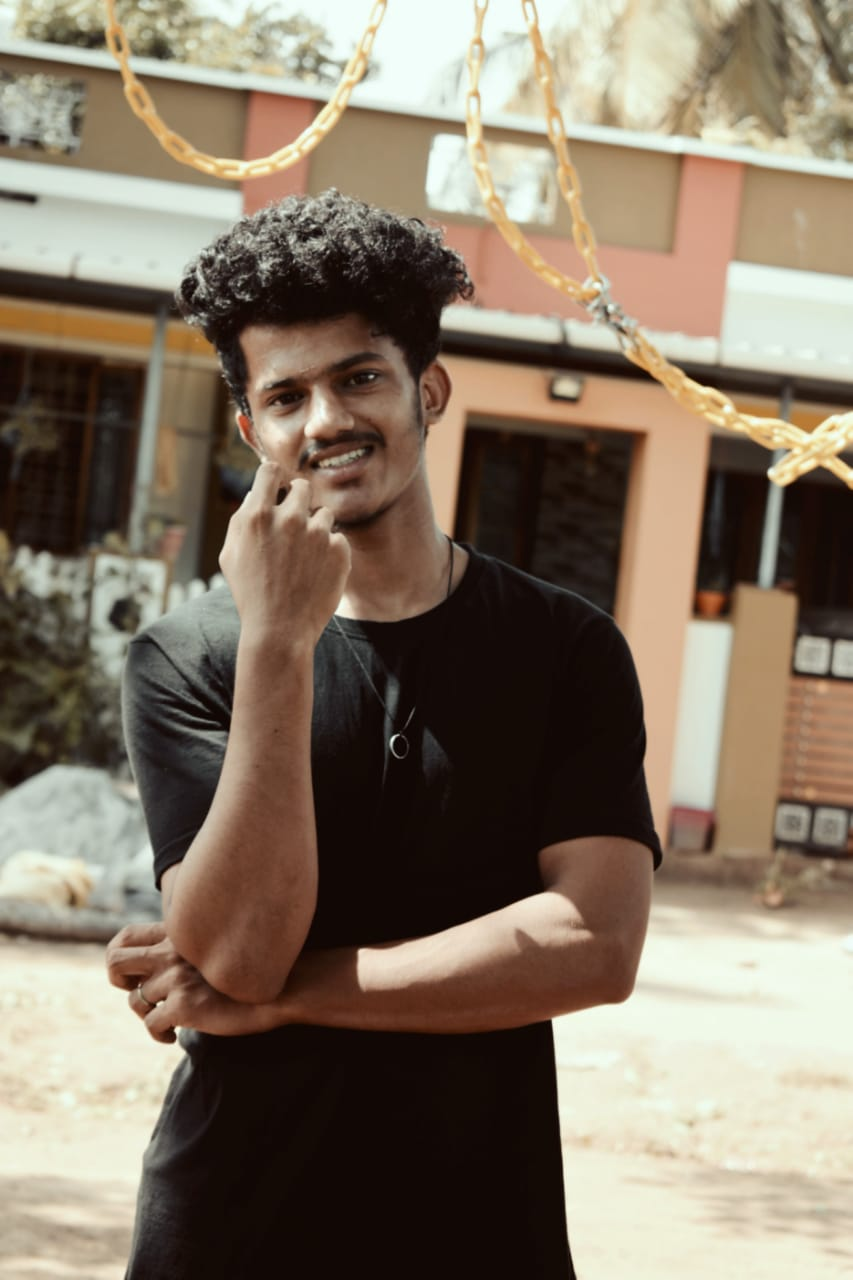
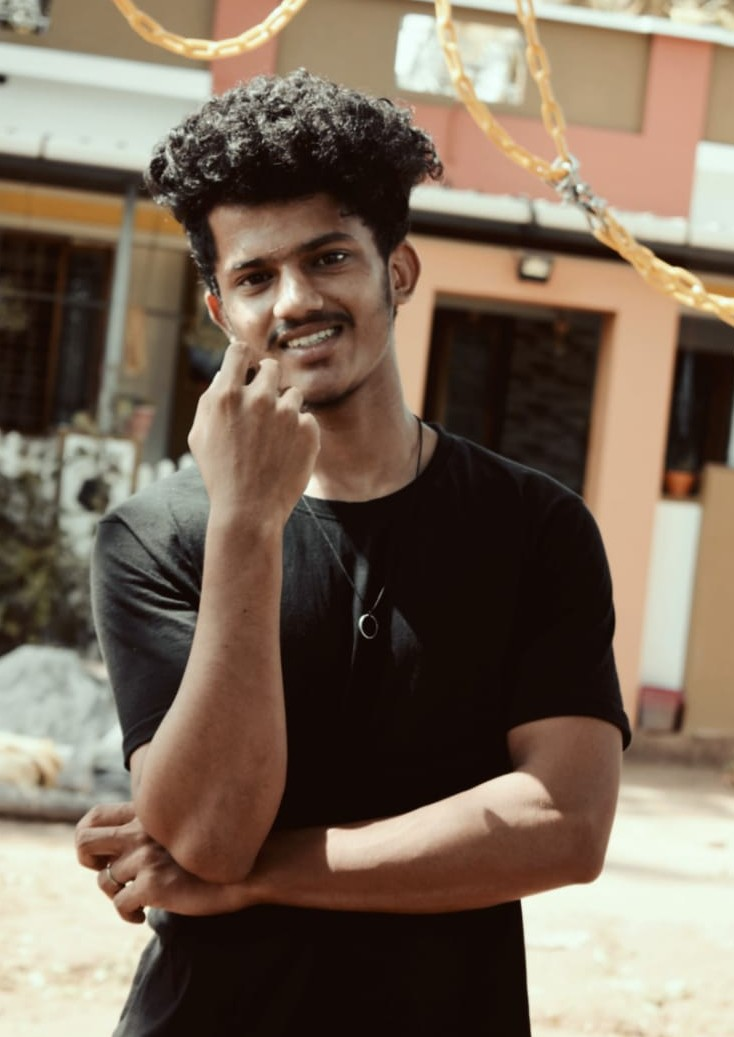
Foote form all basic has been added

diff --git a/index.html b/index.html
@@ -41,7 +41,7 @@
                                 <a class="nav-link" href=""><button class="btn nav-button" id="aboutMe-icon" >About Me</button> </a>
                             </li>
                             <li class="nav-item">
-                                <a class="nav-link" href=""><button class="btn nav-button" id="contactMe-icon">Contact Me</button> </a>
+                                <a class="nav-link" href="#contact-me"><button class="btn nav-button" id="contactMe-icon">Contact Me</button> </a>
                             </li>
                         </ul>      
                         
@@ -66,29 +66,78 @@
         </div>
     </section>
 
-    <section class="bg-success">
+    <section class="photo-scroll">
         <div class="row container-fluid text-center">
            
                  
-                <div class="col-md-6 col-xl-3 box p-5">
-                    <a href=""><img id="img1" style=" height: 30rem;" src="images/Forestcroppped.jpeg" alt=""></a>
+                <div class="col-md-6 col-xl-3 box mt-5">
+                    <a href=""><img id="img1" class="img-fluid" style=" height: 30rem;" src="images/Forestcroppped.jpeg" alt=""></a>
                 </div>
 
-                <div class="col-md-6 col-xl-3 box p-5">
-                    <a href=""><img id="img2" style=" height: 30rem;" src="images/WithCyclecropped.jpeg" alt=""></a>  
+                <div class="col-md-6 col-xl-3 box mt-5">
+                    <a href=""><img id="img2" class="img-fluid" style=" height: 30rem;" src="images/WithCycle.jpeg" alt=""></a>  
                 </div>
                 
-                <div class="col-md-6 col-xl-3 box p-5">
-                    <a href=""><img id="img3" style=" height: 30rem;" src="images/College.jpeg" alt=""></a>
+                <div class="col-md-6 col-xl-3 box mt-5">
+                    <a href=""><img id="img3" class="img-fluid" style=" height: 30rem;" src="images/College.jpeg" alt=""></a>
                 </div>
-                <div class="col-md-6 col-xl-3 box p-5">
-                    <a href=""><img id="img4" style=" height: 30rem;" src="images/BikeCropped.jpg" alt=""></a>
+                <div class="col-md-6 col-xl-3 box mt-5">
+                    <a href=""><img id="img4" class="img-fluid" style=" height: 30rem;" src="images/SmilePortrate.jpeg" alt=""></a>
                 </div>
             
                    
         </div>
     </section>
 
+    <section id="contact-me" class="border1 profile">
+        <div class="container-fluid">
+            <form>
+                <div class="row h5 p-3">
+                    <h3 class="text-center mb-5">I will Contact You Soon</h3>
+
+                    <div class="col-lg-4 ms-3 " >
+                        <label class="mb-2">First Name</label><br>
+                        <input class="form-text-box1" type="text" placeholder="First Name" required>
+                    </div>
+                    <div class="col-lg-4 ms-3 ">
+                        <label class="mb-2">Last Name</label><br>
+                        <input class="form-text-box1" type="text" placeholder="Last Name">
+                    </div>
+ 
+                    <div class="col-lg-4 ms-3">
+                        <label class="mb-2">Email</label><br>
+                        <input class="form-text-box1" type="email" placeholder="Email" required>
+                    </div>
+                    <di class="col-lg-4 ms-3">
+                        <label class="mb-2">Mobile</label><br>
+                        <input class="form-text-box1" type="tel" placeholder="Number" required>
+                    </di>
+                    <div class="col-12 m-3">
+                        <label class="mb-2">Messaage</label><br>
+                        <textarea class="form-text-box2"  placeholder="Type A Message Here..."></textarea>
+                    </div>
+                    
+                </div>
+                <button class="btn submit-button">Submit</button>
+            </form>
+        </div>
+        
+    </section>
+
+    <footer class="border1 profile">
+        <div class="container-fluid">
+            <div class="row" style="height: 10rem;">
+                <div class="text-center">
+                    <a href="https://www.instagram.com/____vignesh.m____/?hl=en"><img class="footer-img" src="images/Social Icon/S1/instagram.png"></a>
+                    <a href="Https://wa.me/9645905113"><img class="footer-img" src="images/Social Icon/S1/whatsapp (3).png" alt=""></a>
+                    <a href=""><img class="footer-img" src="images/Social Icon/S1/linkedin.png"></a>
+                    <p class="text-success pt-2">Contact Me</p>
+                </div>
+                
+            </div>
+
+        </div>
+    </footer>
     
 
     

diff --git a/Js/personal.js b/Js/personal.js
@@ -5,7 +5,7 @@ $(document).ready(function(){
         document.getElementById("home-icon").style.backgroundColor="red"
     })
     $("#home-icon").mouseleave(function(){
-        document.getElementById("home-icon").style.backgroundColor="rgb(64, 238, 212)"
+        document.getElementById("home-icon").style.backgroundColor="rgb(155, 155, 58)"
     })
 
 
@@ -13,7 +13,7 @@ $(document).ready(function(){
         document.getElementById("services-icon").style.backgroundColor="red"
     })
     $("#services-icon").mouseleave(function(){
-        document.getElementById("services-icon").style.backgroundColor="rgb(64, 238, 212)"
+        document.getElementById("services-icon").style.backgroundColor="rgb(155, 155, 58)"
     })
 
 
@@ -22,7 +22,7 @@ $(document).ready(function(){
     })
 
     $("#aboutMe-icon").mouseleave(function(){
-        document.getElementById("aboutMe-icon").style.backgroundColor="rgb(64, 238, 212)"
+        document.getElementById("aboutMe-icon").style.backgroundColor="rgb(155, 155, 58)"
     })
 
 
@@ -30,7 +30,7 @@ $(document).ready(function(){
         document.getElementById("contactMe-icon").style.backgroundColor="red"
     })
     $("#contactMe-icon").mouseleave(function(){
-        document.getElementById("contactMe-icon").style.backgroundColor="rgb(64, 238, 212)"
+        document.getElementById("contactMe-icon").style.backgroundColor="rgb(155, 155, 58)"
     })
 })
 
@@ -40,26 +40,26 @@ let flag=false
 
         var images1 = [], x = -1;
         images1[0] = "images/Forestcroppped.jpeg";
-        images1[1] = "images/WithCyclecropped.jpeg";
+        images1[1] = "images/WithCycle.jpeg";
         images1[2] = "images/College.jpeg";
-        images1[3] = "images/BikeCropped.jpg";
+        images1[3] = "images/SmilePortrate.jpeg";
 
         var images2 = [], y = -1;
-        images2[0] = "images/BikeCropped.jpg";
+        images2[0] = "images/SmilePortrate.jpeg";
         images2[1] = "images/Forestcroppped.jpeg";
-        images2[2] = "images/WithCyclecropped.jpeg";
+        images2[2] = "images/WithCycle.jpeg";
         images2[3] = "images/College.jpeg"
 
         var images3 = [], z = -1;
         images3[0] = "images/College.jpeg";
-        images3[1] = "images/BikeCropped.jpg";
+        images3[1] = "images/SmilePortrate.jpeg";
         images3[2] = "images/Forestcroppped.jpeg";
-        images3[3] = "images/WithCyclecropped.jpeg"
+        images3[3] = "images/WithCycle.jpeg"
 
         var images4 = [], w = -1;
-        images4[0] = "images/WithCyclecropped.jpeg";
+        images4[0] = "images/WithCycle.jpeg";
         images4[1] = "images/College.jpeg";
-        images4[2] = "images/BikeCropped.jpg";
+        images4[2] = "images/SmilePortrate.jpeg";
         images4[3] = "images/Forestcroppped.jpeg"
 
 /*

diff --git a/Css/personal.css b/Css/personal.css
@@ -10,7 +10,7 @@
 }
 .nav-button{
     font-size: 1.1rem;
-    background-color: rgb(64, 238, 212);
+    background-color: rgb(155, 155, 58);
    
 }
 .nav-header-button{
@@ -21,7 +21,44 @@
     
 }
 
+.photo-scroll{
+    
+}
 
 .image-box{
     width: 10rem;
+   
+}
+
+.border1{
+    /*margin-top: 1rem;*/
+    margin-top: 1rem;
+    margin-bottom: 1rem;
+
+    border-top: inset 4px rgb(253, 253, 253);
+    border-bottom: outset 4px rgb(253, 253, 253);
+    border-left: inset 4px rgb(253, 253, 253);
+    border-right: outset 4px rgb(253, 253, 253);
+}
+.form-text-box1{
+    width: 20rem; height:3rem;
+    border-radius: 0.5rem;
+}
+.form-text-box2{
+    width: 22rem; height:15rem;
+    border-radius: 0.5rem;
+    resize: none;  
+}
+.submit-button{
+    background-color: cornflowerblue; 
+    margin-left: 3rem; 
+    margin-top: -2rem; 
+    margin-bottom: 1rem;
+    width: 5.5rem; 
+    height:2.5rem;
+}
+.footer-img{
+    width: 1.5rem;
+    margin: 0.4rem;
+    margin-top: 1rem;
 }
